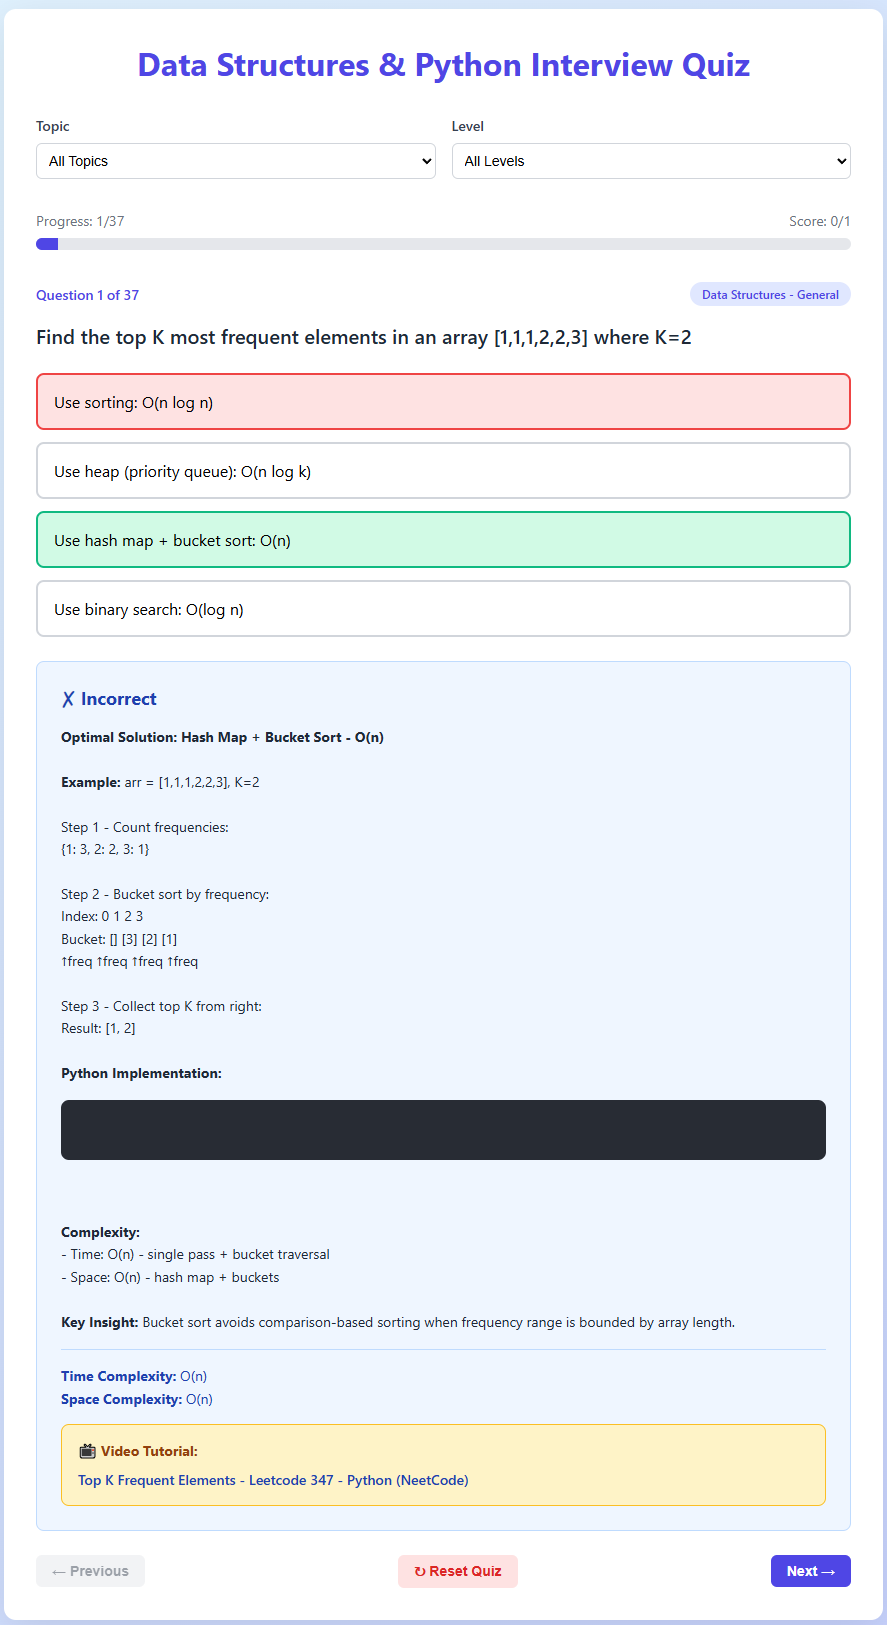
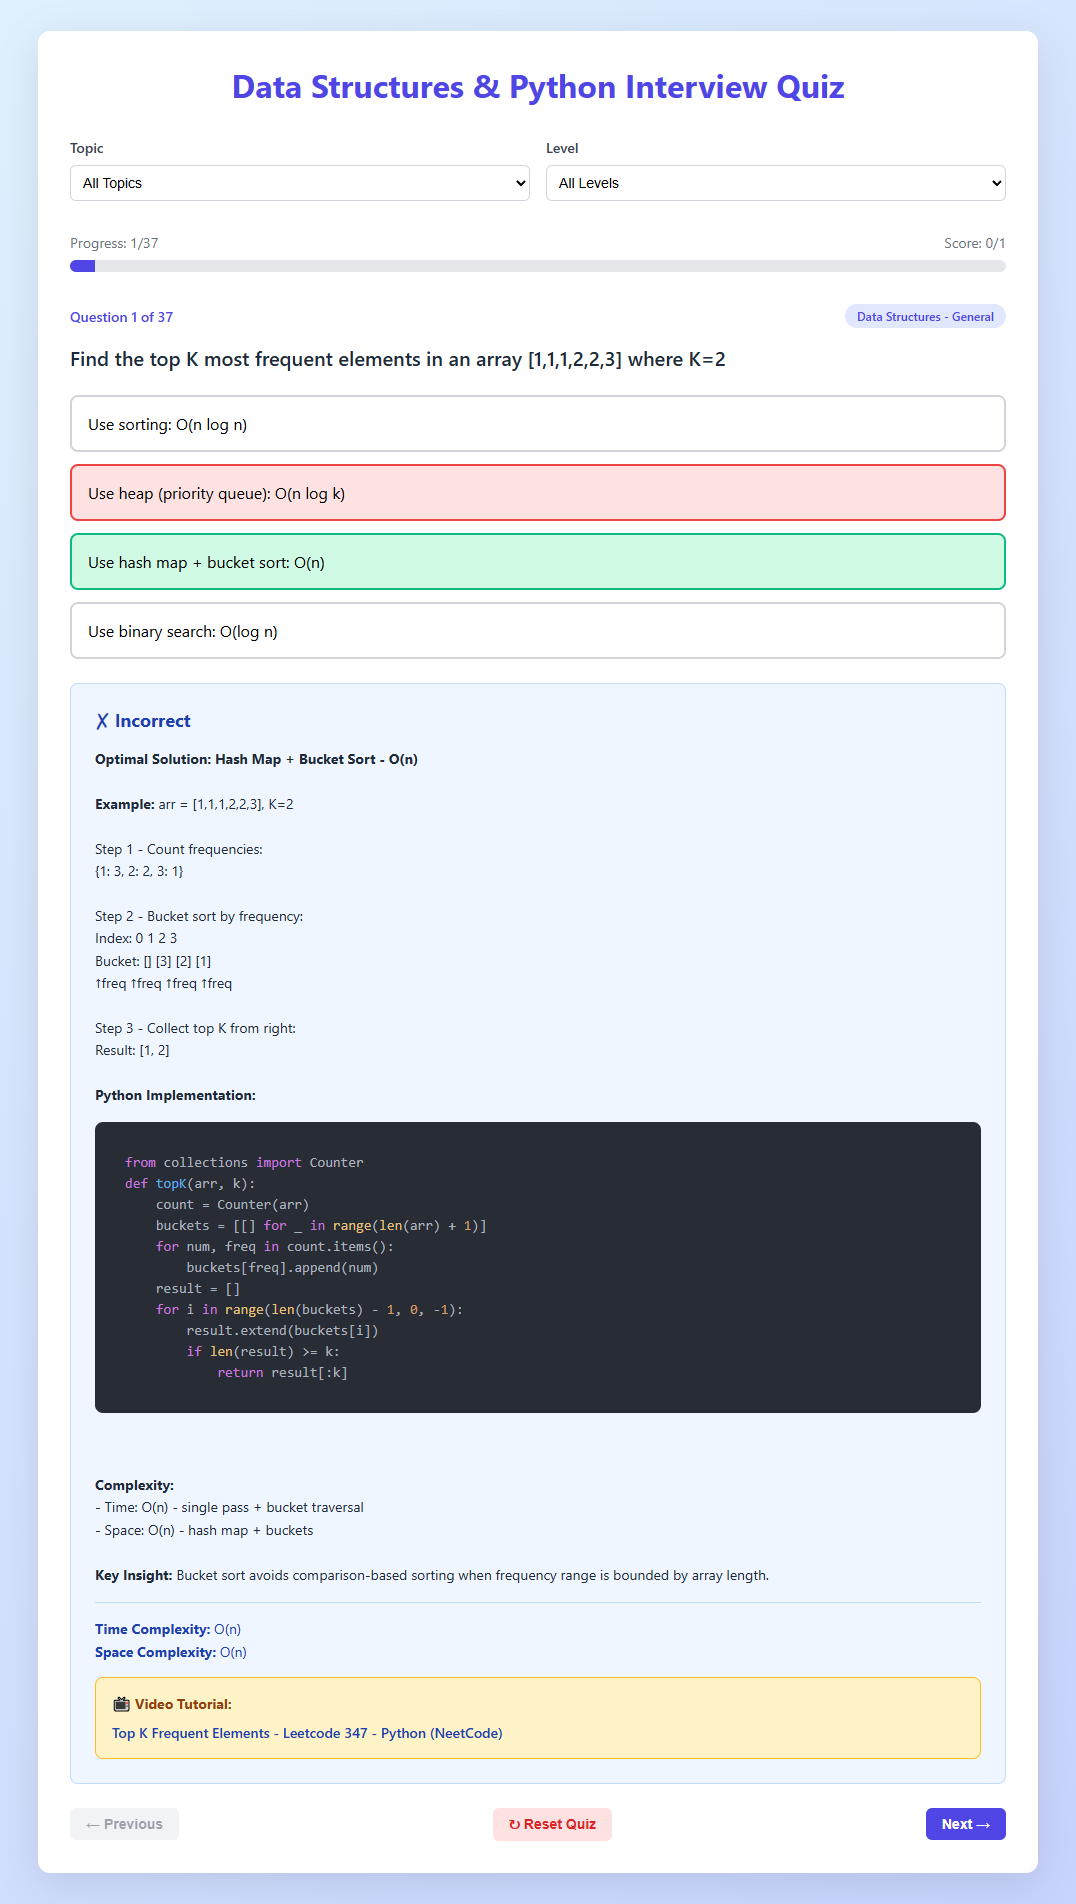
Add README.md and return HTML back to not raw, as this is needed for the python code to appear. NOTE: research and implement a fix for the escaped characters' error later.

diff --git a/app.py b/app.py
@@ -12,7 +12,7 @@ from pathlib import Path
 app = Flask(__name__)
 
 # HTML Template with embedded CSS and JavaScript
-HTML_TEMPLATE = r'''
+HTML_TEMPLATE = '''
 <!DOCTYPE html>
 <html lang="en">
 <head>
